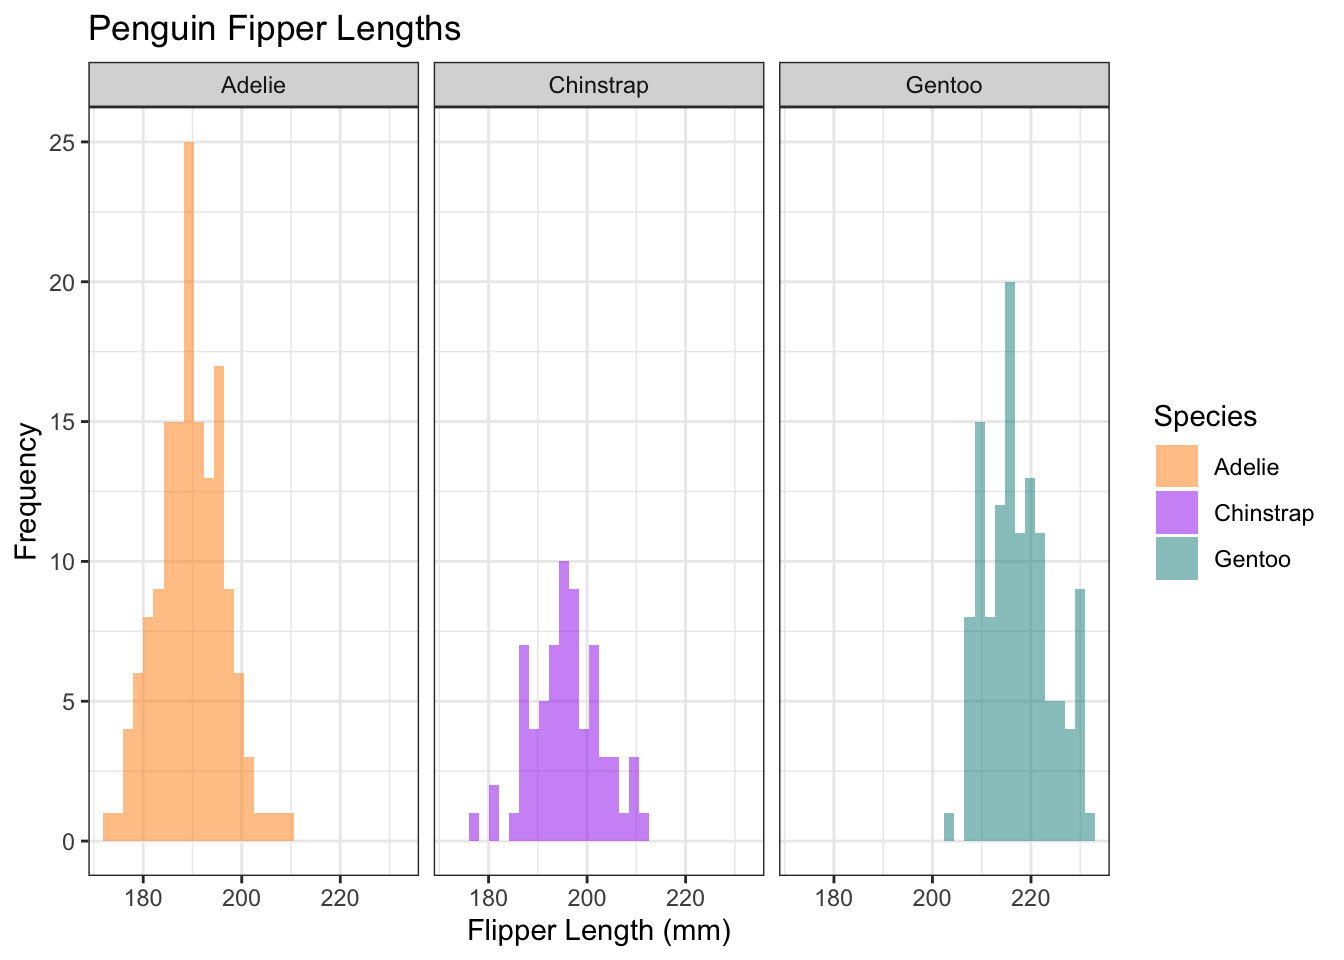
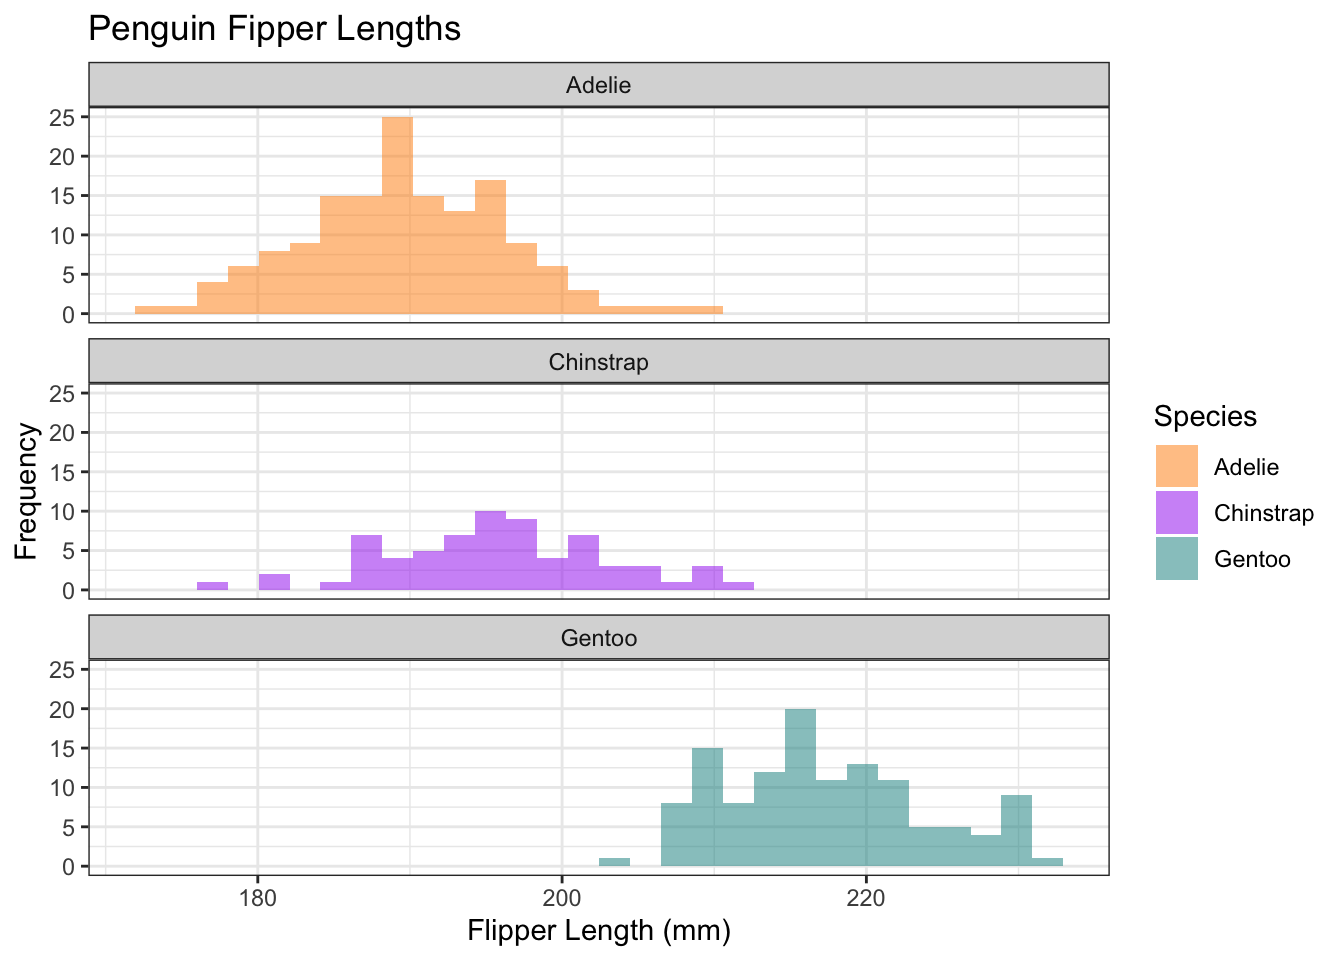
add missing plots/information

diff --git a/week1/TEMPLATE-lecture1.3-ggplot-review.html b/week1/TEMPLATE-lecture1.3-ggplot-review.html
@@ -6,7 +6,7 @@
 
 <meta name="viewport" content="width=device-width, initial-scale=1.0, user-scalable=yes">
 
-<meta name="author" content="Your Name">
+<meta name="author" content="Matteo Torres">
 <meta name="dcterms.date" content="2025-01-06">
 
 <title>Lecture 1.3 TEMPLATE</title>
@@ -128,7 +128,7 @@ pre > code.sourceCode > span > a:first-child::before { text-decoration: underlin
     <div>
     <div class="quarto-title-meta-heading">Author</div>
     <div class="quarto-title-meta-contents">
-             <p>Your Name </p>
+             <p>Matteo Torres </p>
           </div>
   </div>
     
@@ -463,7 +463,17 @@ Note
 <li>e.g.&nbsp;we can display the same data but with y-axis values as <em>proportions</em> rather than counts</li>
 </ul>
 <div class="cell">
-<div class="sourceCode cell-code" id="cb16"><pre class="sourceCode r code-with-copy"><code class="sourceCode r"><span id="cb16-1"><a href="#cb16-1" aria-hidden="true" tabindex="-1"></a><span class="co"># ~ CODE ALONG HERE ~</span></span></code><button title="Copy to Clipboard" class="code-copy-button"><i class="bi"></i></button></pre></div>
+<div class="sourceCode cell-code" id="cb16"><pre class="sourceCode r code-with-copy"><code class="sourceCode r"><span id="cb16-1"><a href="#cb16-1" aria-hidden="true" tabindex="-1"></a><span class="fu">ggplot</span>(<span class="at">data =</span> penguins, </span>
+<span id="cb16-2"><a href="#cb16-2" aria-hidden="true" tabindex="-1"></a>       <span class="at">mapping =</span> <span class="fu">aes</span>(<span class="at">x =</span> species, <span class="at">y =</span> <span class="fu">after_stat</span>(prop), <span class="at">group =</span> <span class="dv">1</span>)) <span class="sc">+</span> </span>
+<span id="cb16-3"><a href="#cb16-3" aria-hidden="true" tabindex="-1"></a>  <span class="fu">geom_bar</span>() <span class="sc">+</span></span>
+<span id="cb16-4"><a href="#cb16-4" aria-hidden="true" tabindex="-1"></a>  <span class="fu">theme_bw</span>()</span></code><button title="Copy to Clipboard" class="code-copy-button"><i class="bi"></i></button></pre></div>
+<div class="cell-output-display">
+<div>
+<figure class="figure">
+<p><img src="TEMPLATE-lecture1.3-ggplot-review_files/figure-html/unnamed-chunk-14-1.png" class="img-fluid figure-img" width="672"></p>
+</figure>
+</div>
+</div>
 </div>
 </section>
 <section id="example-4-default-position-adjustment" class="level3">
@@ -645,7 +655,7 @@ Note
 <span id="cb26-4"><a href="#cb26-4" aria-hidden="true" tabindex="-1"></a>  <span class="fu">labs</span>(<span class="at">x =</span> <span class="st">"Flipper Length (mm)"</span>, </span>
 <span id="cb26-5"><a href="#cb26-5" aria-hidden="true" tabindex="-1"></a>  <span class="at">y =</span> <span class="st">"Frequency"</span>, <span class="at">fill =</span> <span class="st">"Species"</span>,</span>
 <span id="cb26-6"><a href="#cb26-6" aria-hidden="true" tabindex="-1"></a>  <span class="at">title =</span> <span class="st">"Penguin Fipper Lengths"</span>) <span class="sc">+</span></span>
-<span id="cb26-7"><a href="#cb26-7" aria-hidden="true" tabindex="-1"></a>  <span class="fu">facet_wrap</span>(<span class="sc">~</span>species) <span class="sc">+</span></span>
+<span id="cb26-7"><a href="#cb26-7" aria-hidden="true" tabindex="-1"></a>  <span class="fu">facet_wrap</span>(<span class="sc">~</span>species, <span class="at">ncol =</span> <span class="dv">1</span>) <span class="sc">+</span></span>
 <span id="cb26-8"><a href="#cb26-8" aria-hidden="true" tabindex="-1"></a>  <span class="fu">theme_bw</span>()</span></code><button title="Copy to Clipboard" class="code-copy-button"><i class="bi"></i></button></pre></div>
 <div class="cell-output-display">
 <div>
